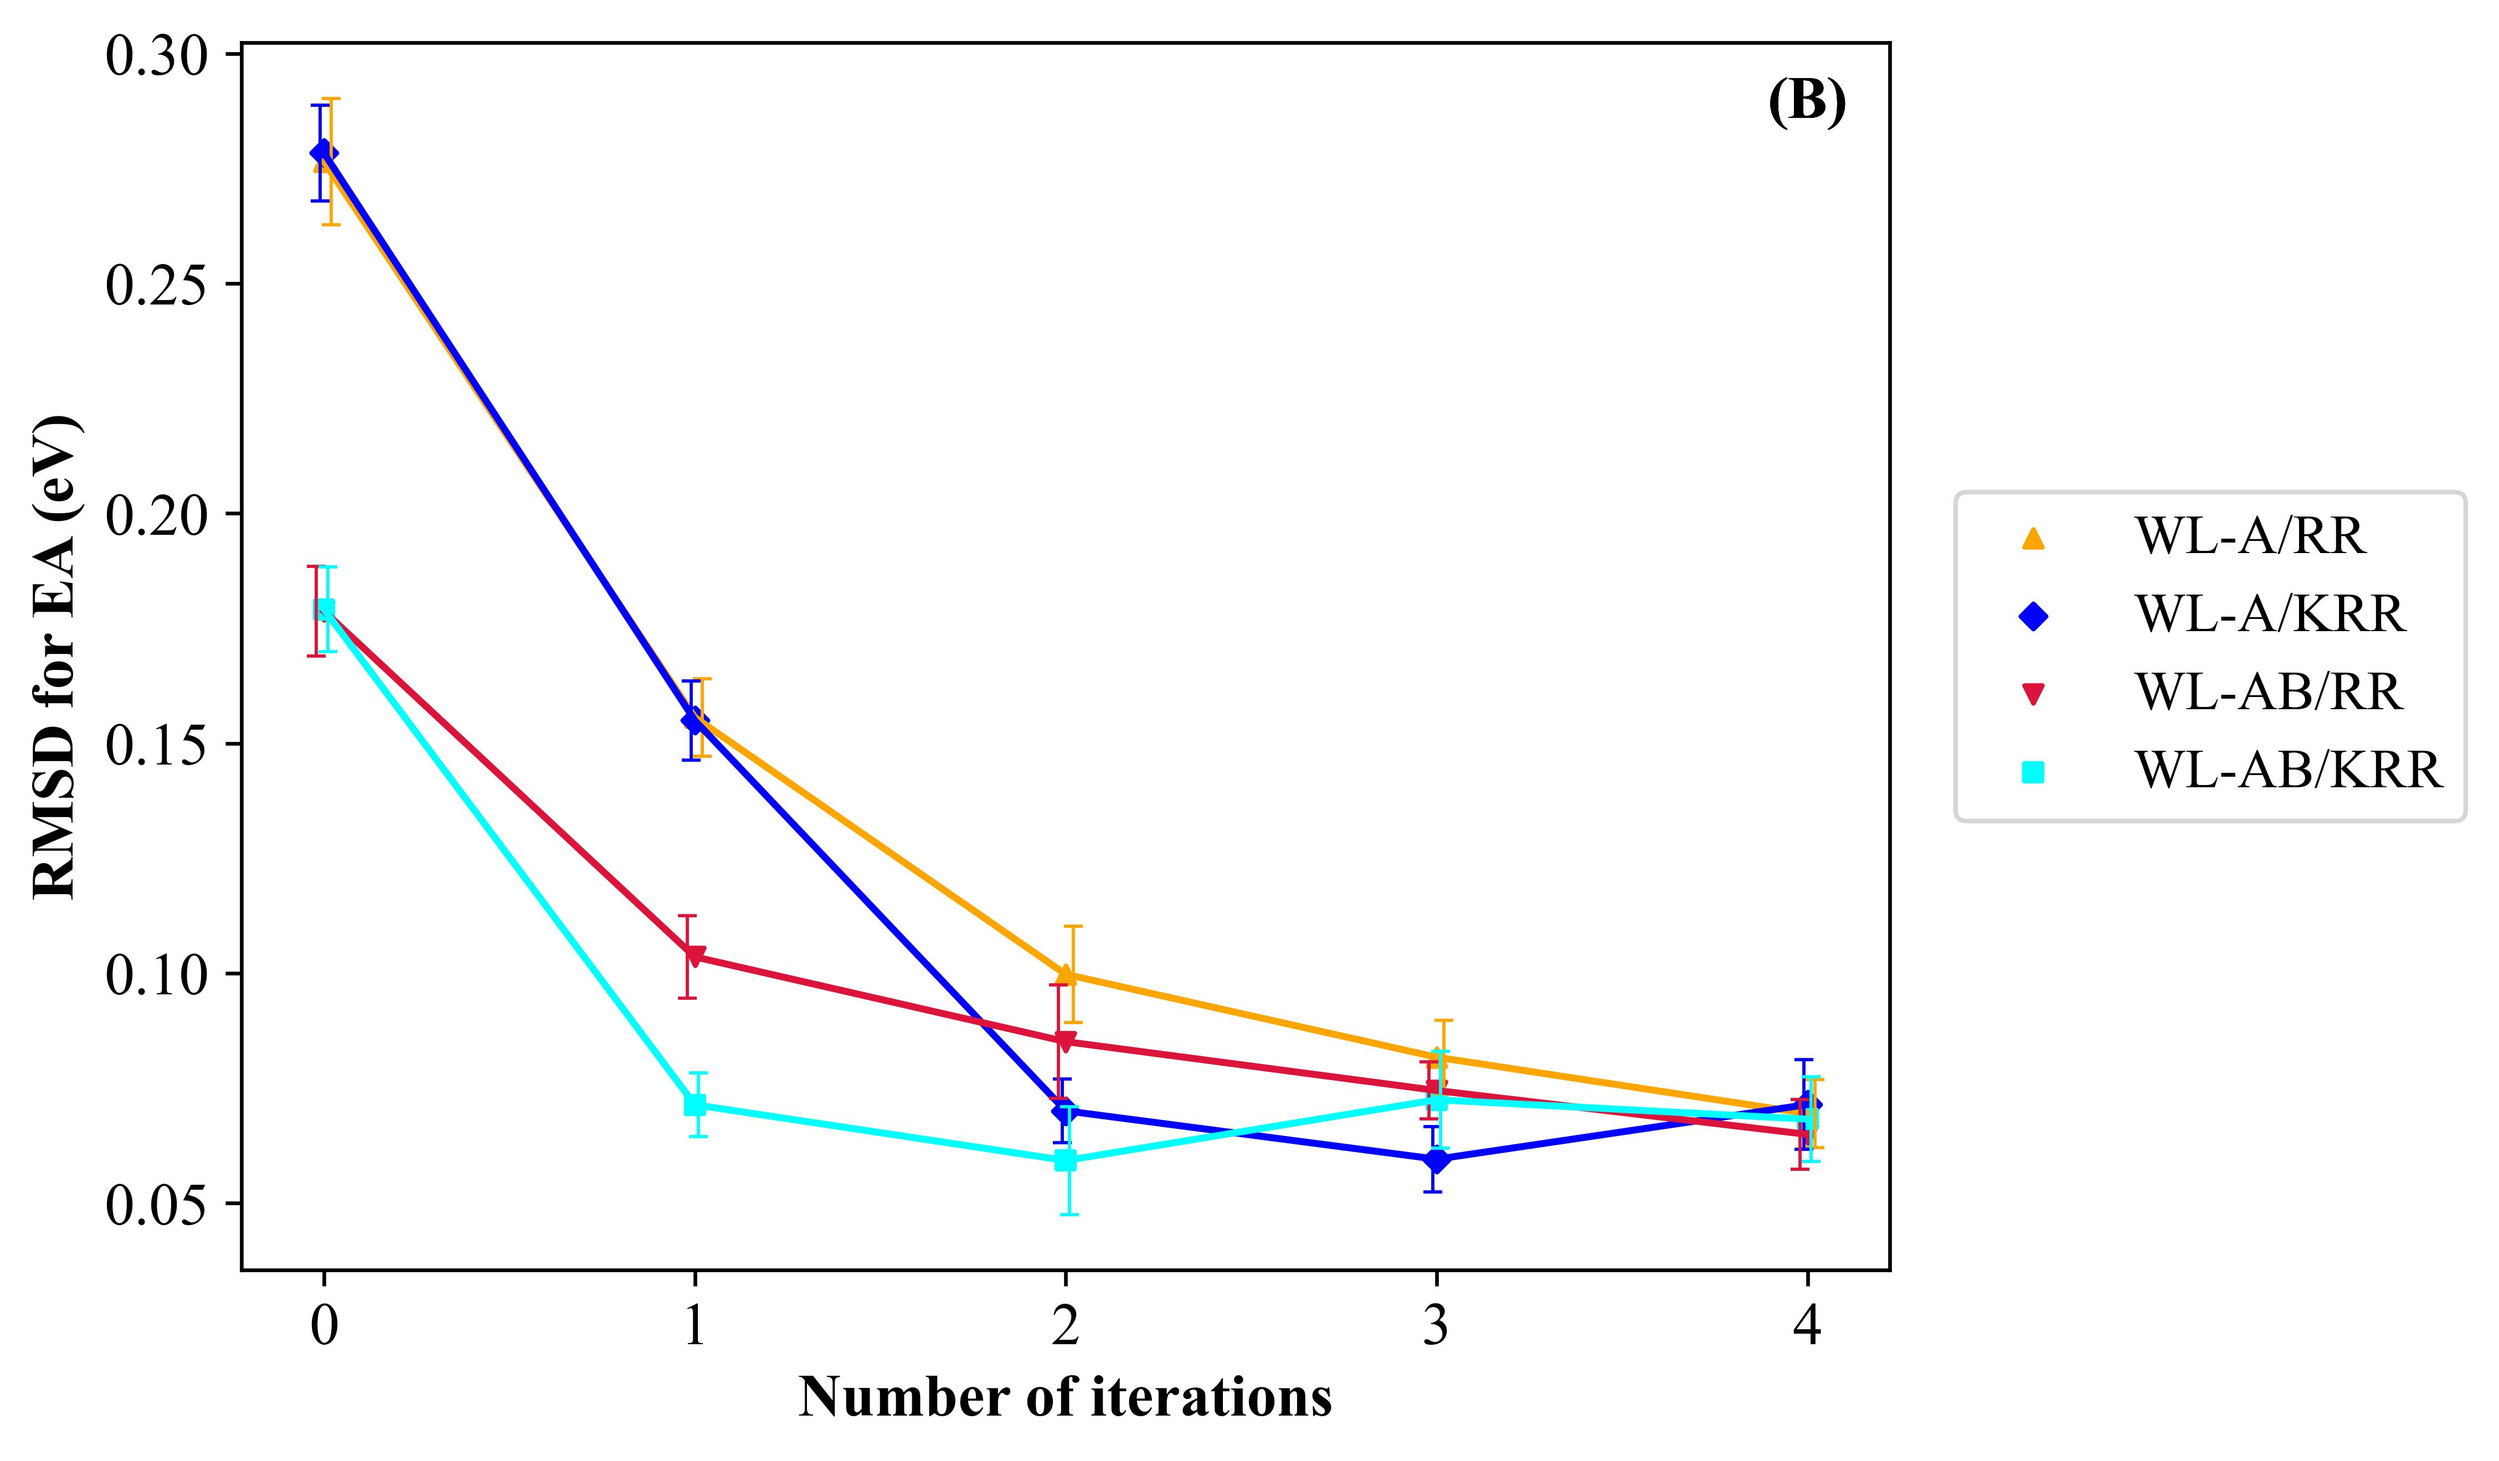
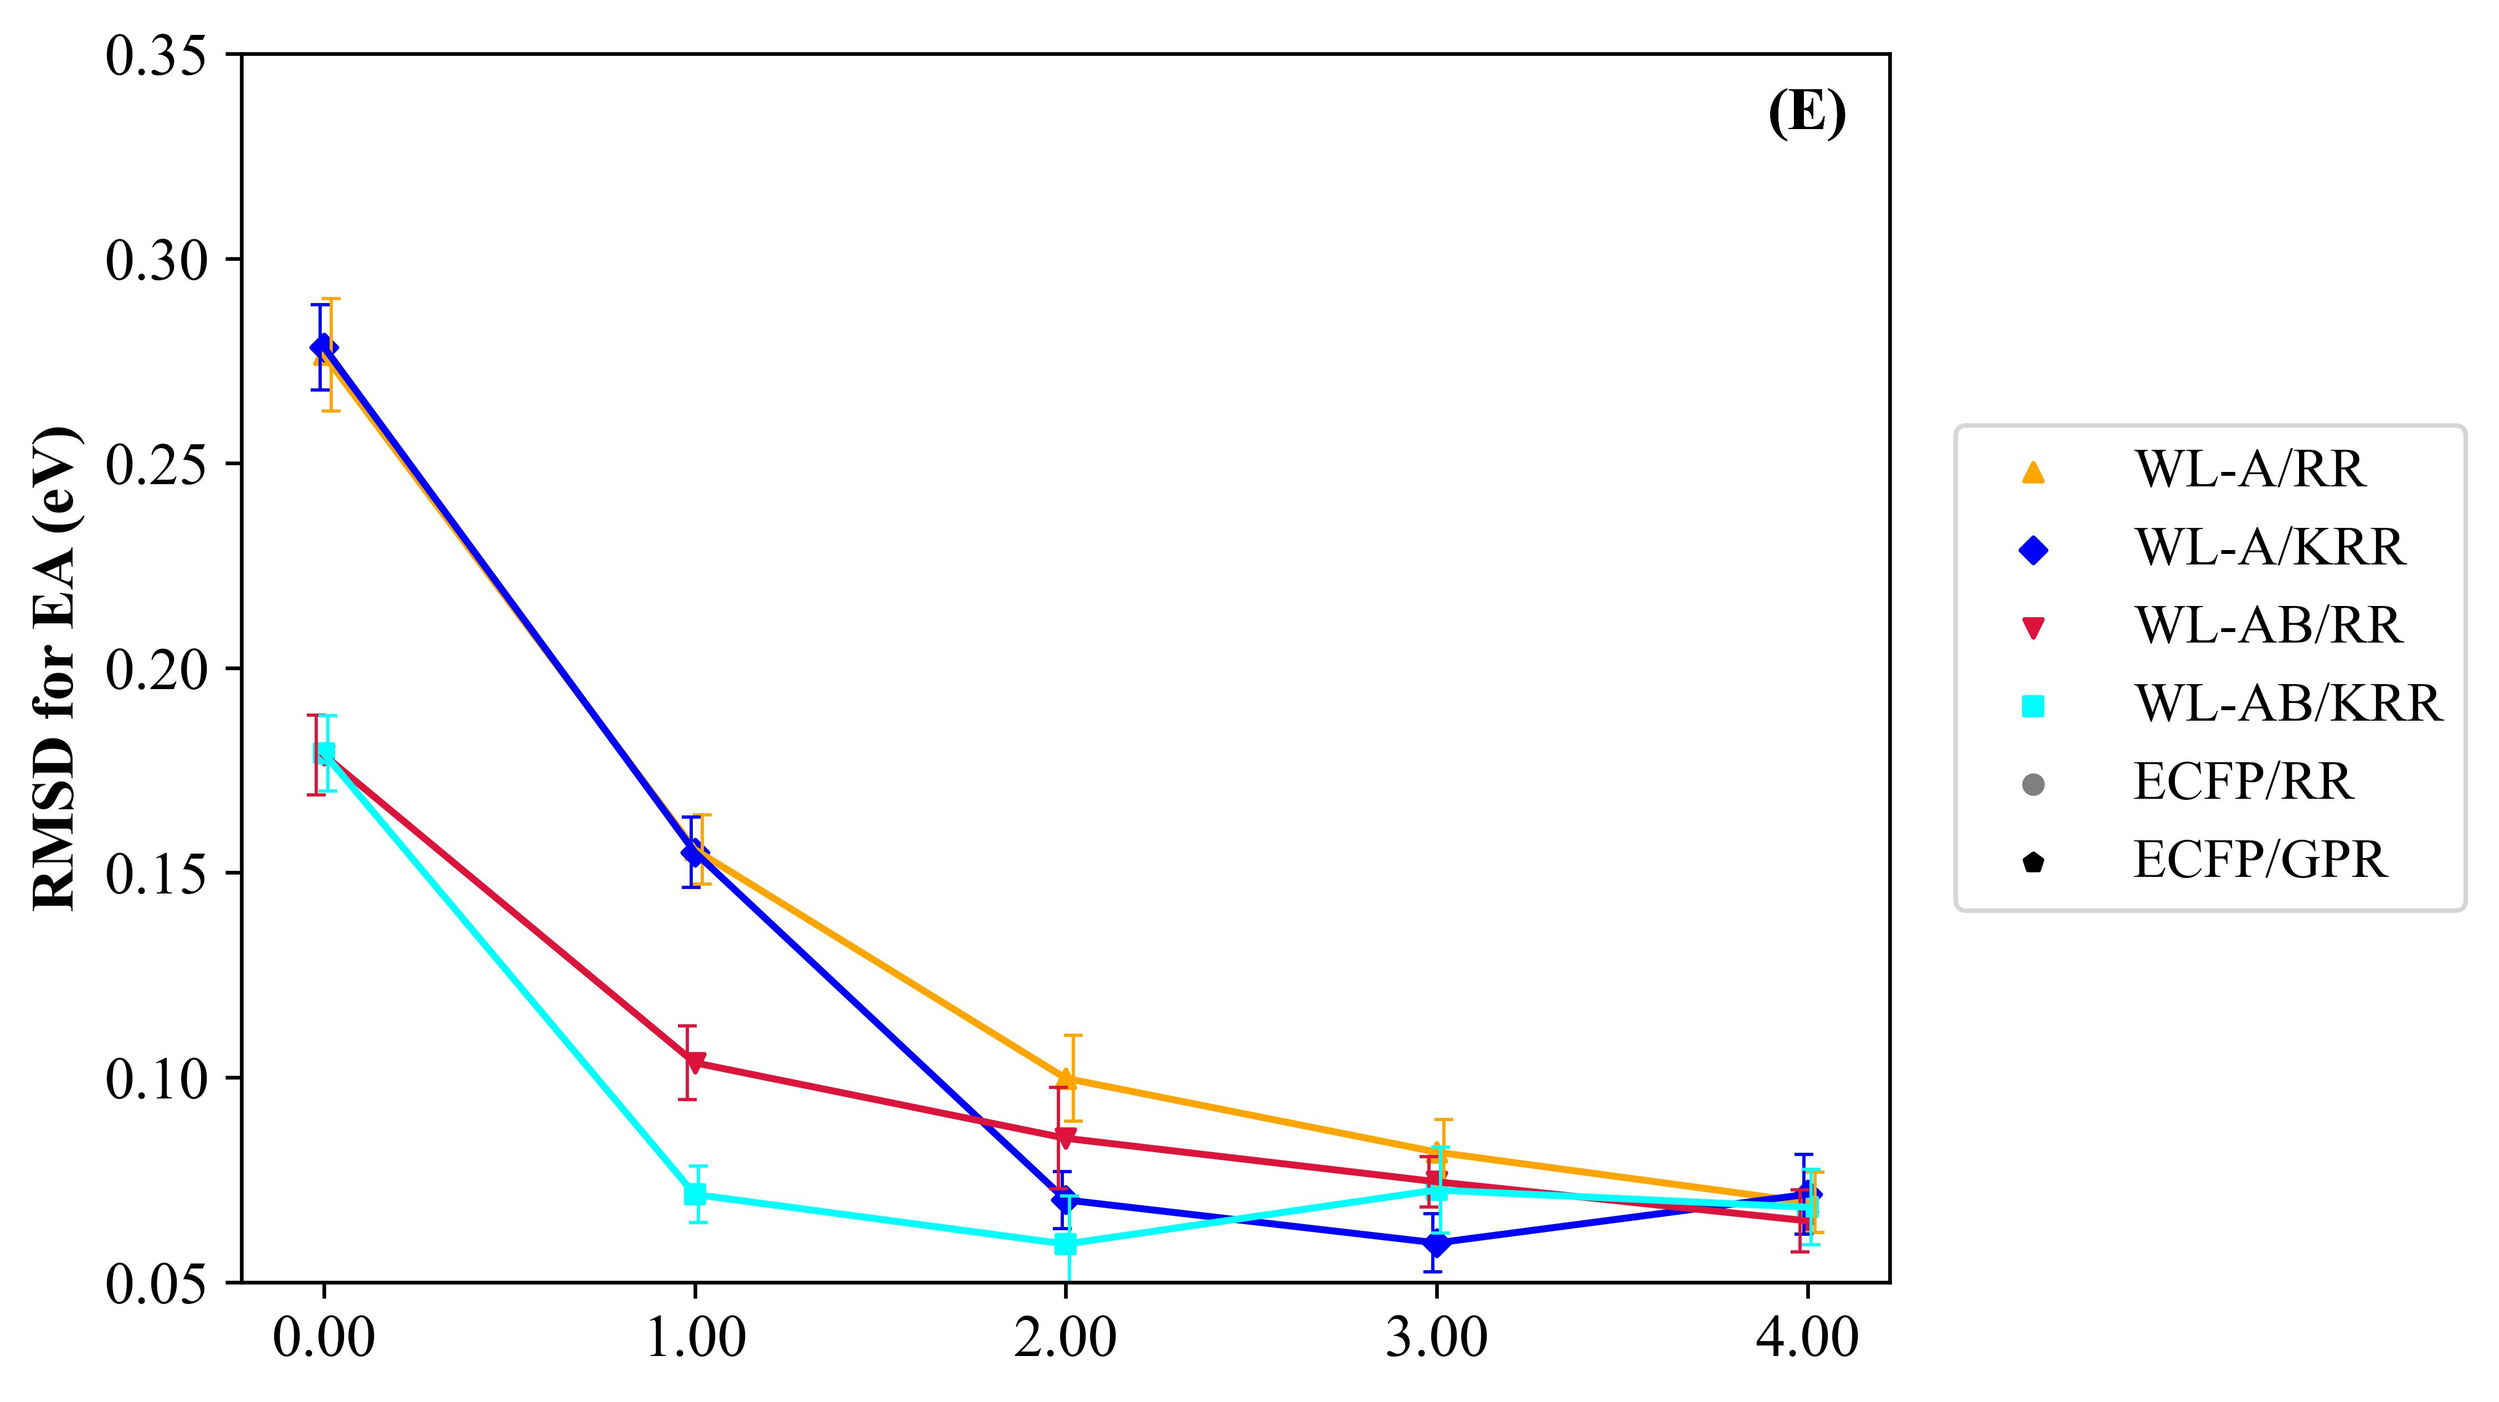
null

diff --git a/experiments/plot_vs_radius.py b/experiments/plot_vs_radius.py
@@ -13,83 +13,88 @@ from utils.plot_utility_v3 import scatter_plot, font_legend, annotate
 
 #for data in ["mixed","pah","subst"]:
 
-data = "mixed"
+#data = "mixed"
 #num_iters = list(range(0,11,1))
-num_iters = list(range(0,11,1))
 
-with open("\\".join(path) + "\\vs_ecfp_radius_"+ data+".pkl","rb") as handle:
-    result = pickle.load(handle)
 
-std = np.std(result,axis= 0)
-result = np.mean(result,axis= 0)
+for data in ["mixed","pah","subst"]:
 
-elec_prop_list = ["BG","EA","IP"]
-method_list = [
-    "RR", "GPR"
-    #"WL-AD/RR","WL-AD/KRR"
-    ]
+    if data == "subst":num_iters = list(range(0,7,1))
+    else: num_iters = list(range(0,11,1))
 
-color = [
-    "orange","blue",
-    #"crimson","cyan",
-    #"gray","black"
-    ]
+    with open("\\".join(path) + "\\vs_ecfp_radius_"+ data+".pkl","rb") as handle:
+        result = pickle.load(handle)
 
-markers = [
-    "^","D",
-    "v","s",
-    "o","p"]
+    std = np.std(result,axis= 0)
+    result = np.mean(result,axis= 0)
 
-plots = [scatter_plot() for elec_prop in ["BG","EA","IP"]]
-notation = ["(A)","(B)","(C)"]
+    elec_prop_list = ["BG","EA","IP"]
+    method_list = [
+        "RR", "GPR"
+        #"WL-AD/RR","WL-AD/KRR"
+        ]
 
-shifted = [0.02,-0.01,-0.02,0.01,0.02,-0.02]
+    color = [
+        #"orange","blue",
+        #"crimson","cyan",
+        "gray","black"
+        ]
 
-for e,elec_prop in enumerate(elec_prop_list):
-    for j,method in enumerate(method_list):
-        if j > 3:
-            continue
-        else:
-            n = len(num_iters)
+    markers = [
+        "^","D",
+        "v","s",
+        "o","p"]
 
-        plots[e].ax.errorbar(
-            np.array(num_iters[:n])+shifted[j],
-            result[e+j*len(elec_prop_list),:n],
-            std[e+j*len(elec_prop_list),:n],
-            color = color[j],
-            elinewidth = 0.7,
-            capthick = 0.7,
-            capsize = 2.0,
-            fmt = 'none'
-            )
+    plots = [scatter_plot() for elec_prop in ["BG","EA","IP"]]
+    notation = ["(A)","(B)","(C)"]
+    shifted = [0.02,-0.01,-0.02,0.01,0.02,-0.02]
 
-        plots[e].add_plot(
-            num_iters[:n],
-            result[e+j*len(elec_prop_list),:n],
-            plot_line = True, label = method,
-            scatter_color = color[j], scatter_marker = markers[j],
-            line_color = color[j],
-            xticks_format = 0, x_major_tick = 1,
-            xlabel = "Number of iterations",
-            ylabel = "RMSD for {} (eV)".format(elec_prop),
-            )
+    plot_lim_data = {
+        "mixed":[(0.13,0.65), (0.09,0.5),(0.08,0.39)],
+        "pah":[(0.09,0.65), (0.05,0.35),(0.05,0.30)],
+        "subst":[(0.09,0.65), (0.08,0.6),(0.05,0.60)],
+    }
 
-        plots[e].ax.text(
-            0.95,0.95,
-            notation[e],
-            ha='center', va='center', 
-            transform=plots[e].ax.transAxes,
-            **annotate
-            )
+    for e,elec_prop in enumerate(elec_prop_list):
+        for j,method in enumerate(method_list):
+            if j > 3:
+                continue
+            else:
+                n = len(num_iters)
 
-for e,elec_prop in enumerate(elec_prop_list):
-    if e == 1:
-        plots[e].ax.legend(
-            loc = "center left",
-            bbox_to_anchor=(1.04,0.5), borderaxespad=0,
-            prop = font_legend,
-            )
-    plots[e].save_fig("\\".join(path)+"\\[result]\\vs_ecfp_radius_"+data+"_"+elec_prop+".jpeg")
+            plots[e].ax.errorbar(
+                np.array(num_iters[:n])+shifted[j],
+                result[e+j*len(elec_prop_list),:n],
+                std[e+j*len(elec_prop_list),:n],
+                color = color[j],
+                elinewidth = 0.7,
+                capthick = 0.7,
+                capsize = 2.0,
+                fmt = 'none'
+                )
+
+            plots[e].add_plot(
+                num_iters[:n],
+                result[e+j*len(elec_prop_list),:n],
+                plot_line = True, label = method,
+                scatter_color = color[j], scatter_marker = markers[j],
+                line_color = color[j],
+                xticks_format = 0, x_major_tick = 1,
+                xlabel = "Fingerprint radius" if e == 2 else None,
+                ylabel = "RMSD for {} (eV)".format(elec_prop),
+                ylim = plot_lim_data[data][e]
+                )
+
+            plots[e].ax.text(
+                0.95,0.95,
+                notation[e],
+                ha='center', va='center', 
+                transform=plots[e].ax.transAxes,
+                **annotate
+                )
+
+    for e,elec_prop in enumerate(elec_prop_list):
+        plots[e].save_fig("\\".join(path)+"\\[result]\\vs_ecfp_radius_"+data+"_"+elec_prop+".jpeg")
 
 
 

diff --git a/experiments/plot_vs_num_iter.py b/experiments/plot_vs_num_iter.py
@@ -11,6 +11,12 @@ import pickle
 
 from utils.plot_utility_v3 import scatter_plot, font_legend, annotate
 
+plot_lim_data = {
+    "mixed":[(0.13,0.65), (0.09,0.5),(0.08,0.39)],
+    "pah":[(0.09,0.65), (0.05,0.35),(0.05,0.30)],
+    "subst":[(0.09,0.65), (0.08,0.6),(0.05,0.60)],
+}
+
 for data in ["mixed","pah","subst"]:
     num_iters = [0,1,2,3,4]
 
@@ -39,7 +45,7 @@ for data in ["mixed","pah","subst"]:
         "o","p"]
 
     plots = [scatter_plot() for elec_prop in ["BG","EA","IP"]]
-    notation = ["(A)","(B)","(C)"]
+    notation = ["(D)","(E)","(F)"]
 
     shifted = [0.02,-0.01,-0.02,0.01,0.02,-0.02]
 
@@ -68,7 +74,8 @@ for data in ["mixed","pah","subst"]:
                 scatter_color = color[j], scatter_marker = markers[j],
                 line_color = color[j],
                 xticks_format = 0, x_major_tick = 1,
-                xlabel = "Number of iterations",
+                ylim = plot_lim_data[data][e],
+                xlabel = "Number of iterations" if e == 2 else None,
                 ylabel = "RMSD for {} (eV)".format(elec_prop),
                 )
 
@@ -82,6 +89,16 @@ for data in ["mixed","pah","subst"]:
 
     for e,elec_prop in enumerate(elec_prop_list):
         if e == 1:
+            plots[e].add_plot(
+                [],[],scatter_color = "gray", scatter_marker = "o",
+                label = "ECFP/RR"
+                )
+            plots[e].add_plot(
+                [],[],scatter_color = "black", scatter_marker = "p",
+                label = "ECFP/GPR",
+                #xlabel = "Number of iterations",
+                ylabel = "RMSD for {} (eV)".format(elec_prop),
+                )
             plots[e].ax.legend(
                 loc = "center left",
                 bbox_to_anchor=(1.04,0.5), borderaxespad=0,

diff --git a/experiments/[result]/Im_stitch.py b/experiments/[result]/Im_stitch.py
@@ -23,14 +23,15 @@ def merge_image2(file1, file2):
     result.paste(im=image2, box=(0, height1))
     return result
 
-def side_merge_image2(file1, file2):
+def side_merge_image2(image1, image2,open_img=True):
     #Merge two images into one, displayed side by side
     #:param file1: path to first image file
     #:param file2: path to second image file
     #:return: the merged Image object
  
-    image1 = Image.open(file1)
-    image2 = Image.open(file2)
+    if open_img == True:
+        image1 = Image.open(image1)
+        image2 = Image.open(image2)
 
     (width1, height1) = image1.size
     (width2, height2) = image2.size
@@ -62,11 +63,18 @@ def merge_image3(file1, file2,file3):
 	return result
 	
 for data_type in ["mixed","pah","subst"]:
-    merge_image3(
-        *[path+"\\vs_num_iter_"+data_type+"_" +elec_prop+".jpeg" for elec_prop in ["BG","EA","IP"]]).save(
-            path+"\\vs_num_iter_"+data_type+".jpeg")
+    foo1 = merge_image3(
+        *[path+"\\vs_num_iter_"+data_type+"_" +elec_prop+".jpeg" for elec_prop in ["BG","EA","IP"]])
 
+    foo2 = merge_image3(
+        *[path+"\\vs_ecfp_radius_"+data_type+"_" +elec_prop+".jpeg" for elec_prop in ["BG","EA","IP"]])
+
+    side_merge_image2(foo2,foo1,open_img=False).save(
+            path+"\\vs__"+data_type+".jpeg")
+
+"""
 for data_type in ["mixed","pah","subst"]:
     merge_image3(
         *[path+"\\vs_train_sizes_"+data_type+"_" +elec_prop+".jpeg" for elec_prop in ["BG","EA","IP"]]).save(
             path+"\\vs_train_sizes_"+data_type+".jpeg")
+"""

diff --git a/vs_num_iter.py b/vs_num_iter.py
@@ -108,7 +108,7 @@ for i in range(N):
 
                 result[i,e+j*len(elec_prop_list), num_iter] += test_rmsd 
 
-with open("\\".join(path) + "\\vs_num_iter_"+data+".pkl","wb") as handle:
+with open("\\vs_num_iter_"+data+".pkl","wb") as handle:
     pickle.dump(result,handle)
 
 
